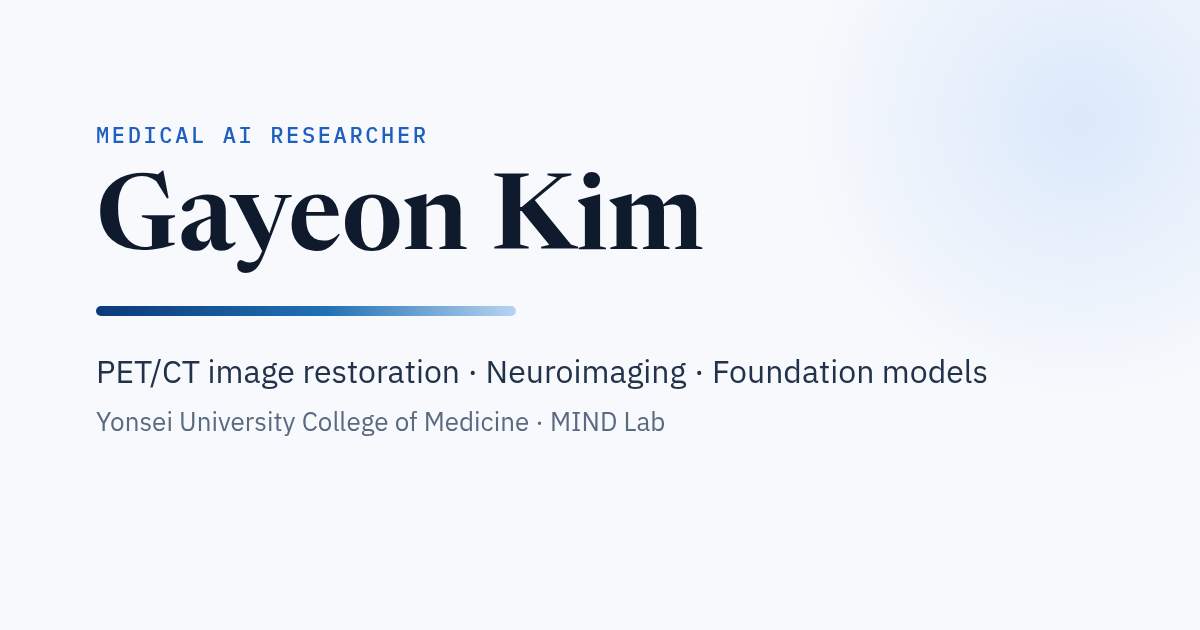
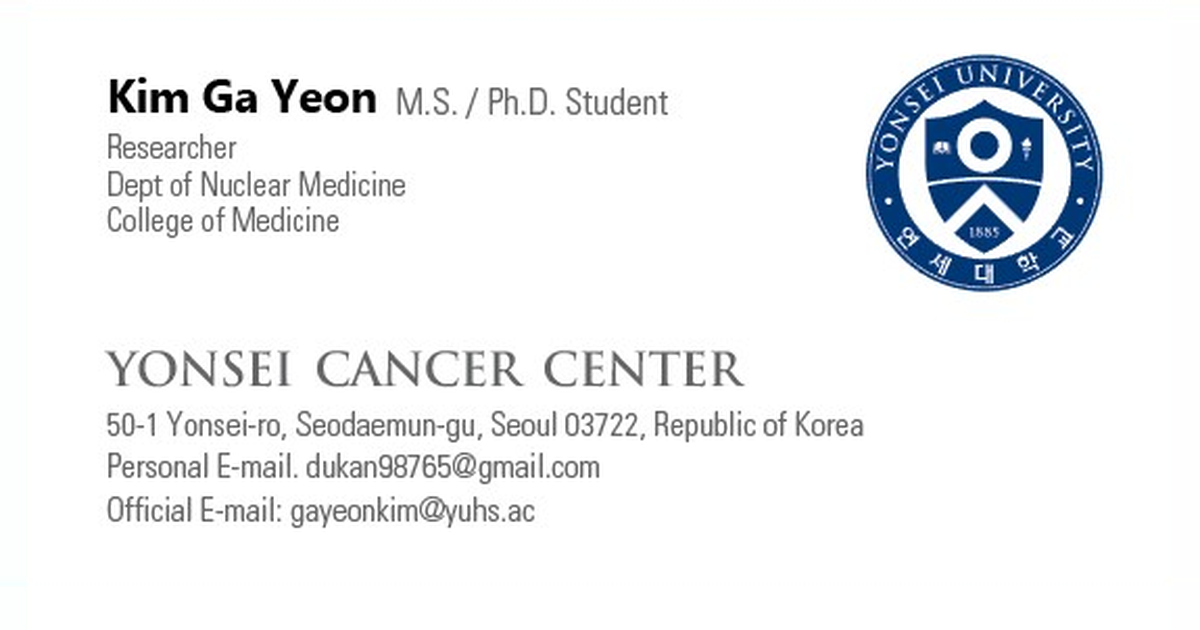
Link preview: business card (phone number removed)

diff --git a/index.html b/index.html
@@ -12,10 +12,10 @@
 <meta property="og:url" content="https://trlily.github.io/">
 <meta property="og:title" content="김가연 Gayeon Kim · 연세대학교 의과대학 의학과 · Medical AI">
 <meta property="og:description" content="김가연, 연세대학교 의과대학 의학과 석박사통합과정 · Medical AI, PET/CT image restoration, neuroimaging">
-<meta property="og:image" content="https://trlily.github.io/images/share-card.png?v=1">
+<meta property="og:image" content="https://trlily.github.io/images/share-card.png?v=2">
 <meta property="og:image:width" content="1200">
 <meta property="og:image:height" content="630">
-<meta property="og:image:alt" content="Gayeon Kim, Medical AI researcher">
+<meta property="og:image:alt" content="Business card of Gayeon Kim, Yonsei Cancer Center">
 <meta name="twitter:card" content="summary_large_image">
 <meta property="og:locale" content="en_US">
 <meta property="og:locale:alternate" content="ko_KR">
@@ -26,7 +26,7 @@
   "name": "Gayeon Kim",
   "alternateName": ["김가연", "Kim Gayeon"],
   "url": "https://trlily.github.io/",
-  "image": "https://trlily.github.io/images/share-card.png?v=1",
+  "image": "https://trlily.github.io/images/share-card.png?v=2",
   "email": "mailto:gykim42@yonsei.ac.kr",
   "jobTitle": "Integrated MS/PhD Student",
   "affiliation": {
